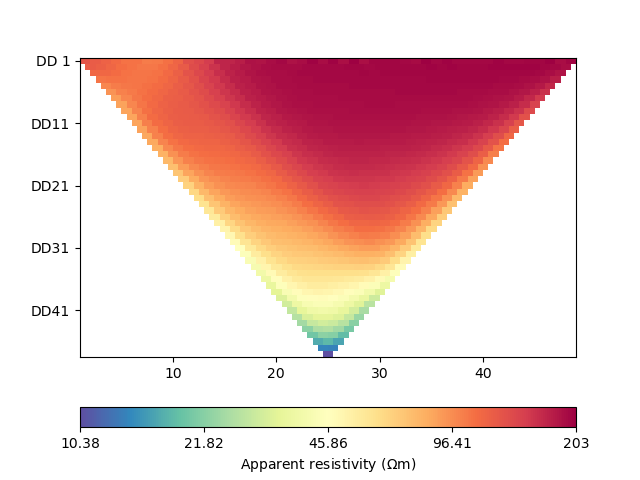
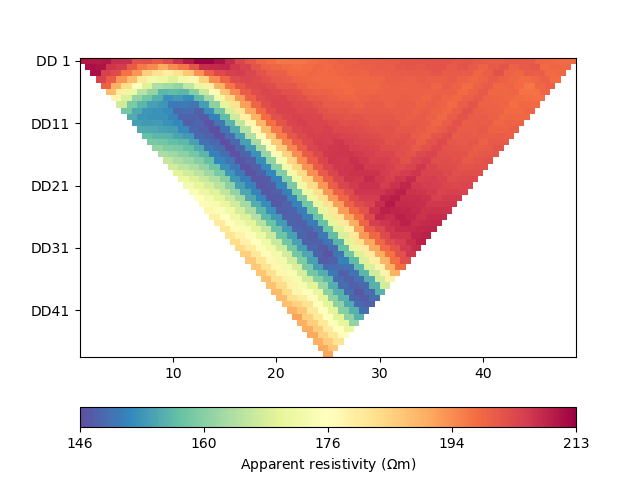
feat: found diff between ert.simulate and fop.response

diff --git a/notebooks/pygimli_ert/tmp/pygimli_ert_gauss_newton.py b/notebooks/pygimli_ert/tmp/pygimli_ert_gauss_newton.py
@@ -5,6 +5,7 @@ from cofi import BaseProblem, InversionOptions, Inversion
 from cofi.solvers import BaseSolver
 
 from pygimli_ert_lib import (
+    model_vec,
     survey_scheme,
     model_true,
     ert_simulate,
@@ -53,7 +54,20 @@ forward_oprt = ert_forward_operator(ert_manager, scheme, inv_mesh)
 Wm = reg_matrix(forward_oprt)
 
 # initialise a starting model for inversion
-start_model = starting_model(ert_manager, val=80)
+start_model = starting_model(ert_manager)
+# start_model = ert_manager.invert(lam=20)
+
+# d = forward_oprt.response(start_model)
+# # print(np.min(data), np.max(data), np.median(data), np.mean(data))
+# log_data = np.log(np.array(d))
+# data = ert.simulate(ert_manager.paraDomain, scheme=scheme, res=start_model)
+# data['rhoa'] = d
+# # print(np.min(d), np.max(d), np.median(d), np.mean(d))
+# # data.remove(data['rhoa'] < 0)
+# # log_data = np.log(data['rhoa'].array())
+# ax = ert.show(data)
+# ax[0].figure.savefig("figs/inbuilt_solver_inferred_data")
+
 ax = pygimli.show(ert_manager.paraDomain, data=start_model, label="$\Omega m$", showMesh=True)
 ax[0].figure.savefig("figs/gauss_newton_model_start")
 
@@ -86,7 +100,9 @@ class GaussNewton(BaseSolver):
             if self._verbose:
                 print("-" * 80)
                 print(f"Iteration {i+1}")
-                if self._obj: print(self._obj(current_model))
+                print("model min and max:", np.min(current_model), np.max(current_model))
+                if self._misfit: print("data misfit:", self._misfit(current_model))
+                if self._reg: print("regularisation:", self._reg(current_model))
             term1 = self._hessian(current_model)
             term2 = - self._gradient(current_model)
             model_update = np.linalg.solve(term1, term2) * self._step
@@ -94,8 +110,8 @@ class GaussNewton(BaseSolver):
         return {"model": current_model, "success": True}
 
 # hyperparameters
-lamda = 20
-niter = 500
+lamda = 0.1
+niter = 50
 inv_verbose = True
 step = 2
 
@@ -127,7 +143,9 @@ ax[0].set_title("Inferred model")
 ax[0].figure.savefig("figs/gauss_newton_inferred_model")
 
 # plot synthetic data
+d = forward_oprt.response(inv_result.model)
 data = ert.simulate(ert_manager.paraDomain, scheme=scheme, res=inv_result.model)
+data["rhoa"] = d
 data.remove(data['rhoa'] < 0)
 log_data = np.log(data['rhoa'].array())
 ax = ert.show(data)

diff --git a/notebooks/pygimli_ert/tmp/pygimli_ert_lib.py b/notebooks/pygimli_ert/tmp/pygimli_ert_lib.py
@@ -12,6 +12,7 @@ import pygimli
 from pygimli import meshtools
 from pygimli.physics import ert
 
+
 ############# Helper functions from PyGIMLi ###########################################
 
 # Dipole Dipole (dd) measuring scheme
@@ -65,12 +66,17 @@ def reg_matrix(forward_oprt):
     Wm = pygimli.utils.sparseMatrix2coo(Wm)
     return Wm
 
+# initialise model
 def starting_model(ert_manager, val=None):
     data = ert_manager.data
-    start_val = np.median(data['rhoa'].array())     # this is how pygimli initialises
-    start_val = start_val or val
+    start_val = val if val else np.median(data['rhoa'].array())     # this is how pygimli initialises
     start_model = np.ones(ert_manager.paraDomain.cellCount()) * start_val
     return start_model
+
+# convert model to numpy array
+def model_vec(rhomap, fmesh):
+    model_true = pygimli.solver.parseArgToArray(rhomap, fmesh.cellCount(), fmesh)
+    return model_true
 
 
 ############# Functions provided to CoFI ##############################################

diff --git a/notebooks/pygimli_ert/tmp/pygimli_ert_inbuilt_invert.py b/notebooks/pygimli_ert/tmp/pygimli_ert_inbuilt_invert.py
@@ -6,6 +6,9 @@ from pygimli_ert_lib import (
     model_true,
     ert_simulate,
     ert_manager,
+    reg_matrix,
+    get_data_misfit,
+    get_regularisation,
 )
 
 ############# ERT Modelling with PyGIMLi ##############################################
@@ -32,3 +35,7 @@ mgr = ert_manager(data, verbose=True)
 inv = mgr.invert(lam=20, verbose=True)
 fig = mgr.showResultAndFit()
 fig.savefig("figs/inbuilt_solver_result")
+
+Wm = reg_matrix(mgr.fop)
+print("data misfit:", get_data_misfit(inv, log_data, mgr.fop))
+print("regularisation:", get_regularisation(inv, Wm, 20))

diff --git a/notebooks/pygimli_ert/tmp/pygimli_ert_scipy_minimize.py b/notebooks/pygimli_ert/tmp/pygimli_ert_scipy_minimize.py
@@ -52,7 +52,7 @@ forward_oprt = ert_forward_operator(ert_manager, scheme, inv_mesh)
 Wm = reg_matrix(forward_oprt)
 
 # initialise a starting model for inversion
-start_model = starting_model(ert_manager)
+start_model = starting_model(ert_manager, val=80)
 ax = pygimli.show(ert_manager.paraDomain, data=start_model, label="$\Omega m$", showMesh=True)
 ax[0].figure.savefig("figs/scipy_opt_model_start")
 
